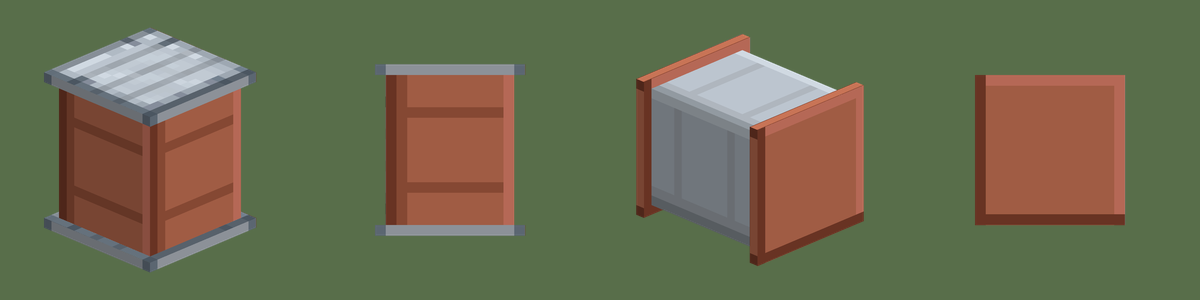
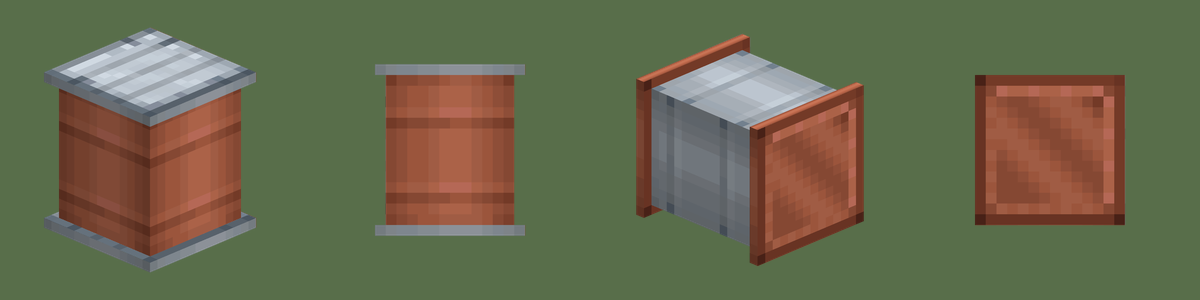
The Heat Exchanger and Condenser are shaded like Create's metal. Their sheets were flat fills with a one-pixel edge and two seam lines. Each barrel is now a banded tube with the highlight part of the way across, a darker row under each flange, and two hoops drawn as a highlight row over a shadow row

diff --git a/art/tools/exchanger_texture.py b/art/tools/exchanger_texture.py
@@ -1,10 +1,8 @@
-import json
 import os
 import sys
 
-from PIL import Image
-
-from plant_style import BLOCK, ROOT, Sheet, nine, ramp, source
+import create_style as cs
+from plant_style import BLOCK, Sheet, nine, ramp, source
 
 ISLANDS = {
     "barrel_side": (0, 0, 12, 16),
@@ -13,72 +11,63 @@ ISLANDS = {
     "barrel_top": (0, 16, 12, 16),
     "barrel_flank": (12, 16, 16, 12),
 }
+HOOPS = (4, 11)
+UNDER_FLANGE = (1, 14)
+LOW, SPAN = 0.1, 0.8
 
 
-def copper():
-    ramps = json.load(open(os.path.join(ROOT, "docs", "art", "palette.json")))
-    ramps = ramps.get("ramps", ramps)["copper"]
-    return [tuple(int(c[i:i + 2], 16) for i in (1, 3, 5)) for c in ramps]
+def lit(tones, value):
+    return cs.tone(tones, LOW + SPAN * value)
 
 
-def across(width, light, mid, shade, dark):
-    return [light if i == 0 else dark if i == width - 1 else shade if i == width - 2 else mid for i in range(width)]
+def along(i):
+    return 0.12 if i in HOOPS else -0.28 if i - 1 in HOOPS else -0.2 if i == UNDER_FLANGE[0] else -0.1 if i == UNDER_FLANGE[1] else 0.0
 
 
 def barrel(sheet, tones):
-    hoops = (4, 11)
-    for x, c in enumerate(across(12, *tones)):
+    band = cs.tube(12)
+    for x in range(12):
         for y in range(16):
-            ring = tones[2] if y in hoops and 0 < x < 10 else c
-            sheet.put("barrel_side", x, y, ring)
-            sheet.put("barrel_top", x, y, ring)
-    for y, c in enumerate(across(12, *tones)):
+            sheet.put("barrel_side", x, y, lit(tones, band[x] + along(y)))
+            sheet.put("barrel_top", x, y, lit(tones, band[x] + along(y)))
+    for y in range(12):
         for x in range(16):
-            sheet.put("barrel_flank", x, y, tones[2] if x in hoops and 0 < y < 10 else c)
+            sheet.put("barrel_flank", x, y, lit(tones, band[y] + along(x)))
 
 
-def flange(sheet, plate, edge):
-    sheet.paste("flange_end", plate)
-    for x in range(14):
-        sheet.put("flange_side", x, 0, edge[1] if x in (0, 13) else edge[0])
+def flange(sheet, end, tones):
+    sheet.paste("flange_end", end)
+    for x, v in enumerate(cs.tube(14)):
+        sheet.put("flange_side", x, 0, lit(tones, v - 0.1))
 
 
-def flat(color_light, color_mid, color_dark):
-    plate = Image.new("RGBA", (14, 14), color_mid + (255,))
-    for i in range(14):
-        plate.putpixel((i, 0), color_light + (255,))
-        plate.putpixel((0, i), color_light + (255,))
-    for i in range(14):
-        plate.putpixel((i, 13), color_dark + (255,))
-        plate.putpixel((13, i), color_dark + (255,))
+def copper_plate():
+    plate = nine(source("steel_block"), 14, 14)
+    for (x, y), v in cs.plate(14, 14).items():
+        plate.putpixel((x, y), cs.tone(cs.COPPER, v * 0.9) + (255,))
     return plate
 
 
 def heat_exchanger():
-    c = copper()
     steel = source("steel_block")
-    tone = ramp(steel)
     sheet = Sheet(32, ISLANDS)
-    barrel(sheet, (c[5], c[4], c[3], c[2]))
-    flange(sheet, nine(steel, 14, 14), (tone[4], tone[1]))
+    barrel(sheet, cs.COPPER)
+    flange(sheet, nine(steel, 14, 14), ramp(steel, 11))
     return sheet
 
 
 def condenser():
-    c = copper()
-    tone = ramp(source("steel_block"))
     sheet = Sheet(32, ISLANDS)
-    barrel(sheet, (tone[6], tone[5], tone[4], tone[2]))
-    flange(sheet, flat(c[5], c[4], c[2]), (c[4], c[2]))
+    barrel(sheet, ramp(source("steel_block"), 11))
+    flange(sheet, copper_plate(), cs.COPPER)
     return sheet
 
 
 def main():
-    first = os.path.join(BLOCK, "heat_exchanger.png")
-    if "fresh" not in sys.argv and Image.open(first).getpixel((31, 15))[3] == 0:
+    if "fresh" not in sys.argv:
         print("left alone; pass fresh to repaint the exchanger sheets")
         return
-    heat_exchanger().save(first)
+    heat_exchanger().save(os.path.join(BLOCK, "heat_exchanger.png"))
     condenser().save(os.path.join(BLOCK, "condenser.png"))
     print("painted the exchanger sheets")
 

diff --git a/art/tools/create_style.py b/art/tools/create_style.py
@@ -1,0 +1,111 @@
+import math
+
+
+def rgb(*values):
+    return [tuple(int(v[i:i + 2], 16) for i in (1, 3, 5)) for v in values]
+
+
+BRASS = rgb("#592424", "#724731", "#9e6947", "#af794f", "#bf8e55", "#c79758", "#cea05a", "#d7aa5e", "#e4b763", "#eec168", "#f7cb6c", "#fbdc7d", "#ffeb8c")
+COPPER = rgb("#5a2a1d", "#83402c", "#904931", "#9a5038", "#a75a40", "#b26247", "#c26b4c", "#c87456", "#d67b5b", "#e3826c", "#f4a98f")
+IRON = rgb("#2b2b2e", "#353438", "#3f3e42", "#444444", "#494848", "#4f4f4f", "#595858", "#676161", "#757171", "#8d8b8b", "#989797")
+CAVITY = rgb("#3a1212", "#511c1c", "#5e2521", "#703d2e")
+TUBE = (0.36, 0.55, 0.73, 0.91, 0.91, 0.82, 0.73, 0.64, 0.55, 0.36)
+
+
+def tone(ramp, value):
+    return ramp[max(0, min(len(ramp) - 1, round(max(0.0, min(1.0, value)) * (len(ramp) - 1))))]
+
+
+def stretch(ramp, n):
+    out = []
+    for i in range(n):
+        t = i * (len(ramp) - 1) / (n - 1)
+        a, b = ramp[int(t)], ramp[min(len(ramp) - 1, int(t) + 1)]
+        f = t - int(t)
+        out.append(tuple(round(a[k] + (b[k] - a[k]) * f) for k in range(3)))
+    return out
+
+
+def tube(n):
+    out = []
+    for i in range(n):
+        t = i * (len(TUBE) - 1) / max(1, n - 1)
+        a, b = TUBE[int(t)], TUBE[min(len(TUBE) - 1, int(t) + 1)]
+        out.append(a + (b - a) * (t - int(t)))
+    return out
+
+
+def strip(w, h):
+    if (w, h) == (2, 2):
+        return {(0, 0): 0.9, (1, 0): 0.62, (0, 1): 0.55, (1, 1): 0.25}
+    out = {}
+    along = tube(w if h <= 2 and w >= h else h)
+    for y in range(h):
+        for x in range(w):
+            if h <= 2 and w >= h:
+                v = along[x] - (0.3 if y == 1 else 0.0)
+            else:
+                v = 0.86 - 0.3 * y / max(1, h - 1) - (0.3 if x == 1 else 0.0) + (0.08 if y == 0 else -0.1 if y == h - 1 else 0.0)
+            out[x, y] = v
+    return out
+
+
+def small(w, h):
+    out = {}
+    for y in range(h):
+        for x in range(w):
+            top, left, bottom, right = y == 0, x == 0, y == h - 1, x == w - 1
+            if top and left:
+                v = 0.95
+            elif bottom and right:
+                v = 0.12
+            elif (top and right) or (bottom and left):
+                v = 0.5
+            elif top or left:
+                v = 0.85
+            elif bottom or right:
+                v = 0.3
+            else:
+                v = 0.6 + 0.1 * math.cos(2 * math.pi * (x + y - 3) / 8.0)
+            out[x, y] = v
+    return out
+
+
+def plate(w, h, streaked=False):
+    out = {}
+    for y in range(h):
+        for x in range(w):
+            top, left, bottom, right = y == 0, x == 0, y == h - 1, x == w - 1
+            if top and left:
+                v = 0.08
+            elif top + left + bottom + right == 2:
+                v = 0.0
+            elif top or left:
+                v = 0.17
+            elif bottom or right:
+                v = 0.08
+            elif x in (1, w - 2) and y in (1, h - 2):
+                v = 0.5
+            elif x == 1 or y == 1:
+                v = 0.92 if (x + y) % 3 else 1.0
+            elif x == w - 2 or y == h - 2:
+                v = 0.83 if (x + y) % 2 else 0.68
+            elif streaked:
+                swell = math.sin(math.pi * (x - 2) / max(1, w - 5))
+                if y == 2:
+                    v = 0.24 + 0.1 * swell
+                else:
+                    v = (0.6 if y % 2 else 0.47) + 0.14 * swell - (0.08 if (x * 3 + y * 5) % 7 == 0 else 0.0)
+            else:
+                v = 0.58 + 0.17 * math.cos(2 * math.pi * (x + y - 7.5) / 8.0)
+                v -= 0.12 * max(0, 2 - (x - 2) - (y - 2)) + 0.12 * max(0, 2 - (w - 3 - x) - (h - 3 - y))
+            out[x, y] = v
+    return out
+
+
+def field(w, h, streaked=False):
+    if min(w, h) <= 2:
+        return strip(w, h)
+    if min(w, h) <= 4:
+        return small(w, h)
+    return plate(w, h, streaked)

diff --git a/art/SOURCES.md b/art/SOURCES.md
@@ -235,7 +235,7 @@ All block textures except the pipe, ores and crack overlays were cleaned by `art
 
 - Used by: `textures/block/heat_exchanger.png`, `textures/block/condenser.png` and the two blocks' models
 - Source: `art/blockbench/heat_exchanger.bbmodel` and `condenser.bbmodel`, each one group called `body`: a barrel with a flange at each end. The exchanger's barrel stands upright, so a stack of them reads as one column of bolted sections. The condenser's barrel lies along its facing, so a row of them reads as one long shell. Where a pipe joins the barrel's side, the blockstate adds the Reinforced Pipe's own flanged stub, the same model the Relief Valve uses.
-- Texture: `art/tools/exchanger_texture.py` paints flat ramps with two plain hoops. The Heat Exchanger is copper from `docs/art/palette.json` with flanges of the author's Steel Block. The Condenser is the Steel Block's tones with copper flanges.
+- Texture: `art/tools/exchanger_texture.py` paints each barrel as a banded tube with two hoops, a highlight row over a shadow row, using the shading in `art/tools/create_style.py`. The Heat Exchanger is in Create's copper tones with flanges of the author's Steel Block. The Condenser is the Steel Block's tones with flanges painted as a framed copper plate with a diagonal sheen.
 - Status: script-painted placeholders, not yet approved.
 - Repainting: run the tool with `fresh`. Without it the sheets are left alone, so hand edits are safe. `art/tools/exchanger_model.py` then exports the models and blockstates.
 - Date: 2026-11-15

diff --git a/docs/art/STYLE.md b/docs/art/STYLE.md
@@ -11,6 +11,13 @@
   - Flow direction: brass double chevrons on the pump housing, pointing to the outlet.
 - Warning stripes only on hazard-bearing objects (hatch, cask, waste canister, suit trim). Lamps are drawn unlit unless a real blockstate lights them (a block state such as `powered=true`).
 - No baked directional scene lighting, no text, low noise, discrete pixels.
+- Metal is shaded the way Create's own sheets are, never as a flat fill with a one-pixel edge. `art/tools/create_style.py` holds the patterns, measured from Create's `brass_block`, `copper_underside`, `industrial_iron_block` and `whistle`:
+  - Plate: a dark outer frame with the darkest pixels at its corners, a bright one-pixel inner rim, then the field.
+  - Brass and copper field: diagonal sheen bands about 8 pixels apart across five or six tones, darker toward the top-left and bottom-right of the field.
+  - Iron and steel field: a dark inset line under the rim, then horizontal streaks, alternate rows lighter and each row brightest in the middle.
+  - Tube or thin bar: banded across its width with the highlight about 40% of the way over, and a darker row under any rim or hoop.
+  - Cavity: dark maroon, not black.
+  - Keep that shading structural. Scattered rivets, glints and dots are still noise.
 
 ## How the generated textures were made
 
